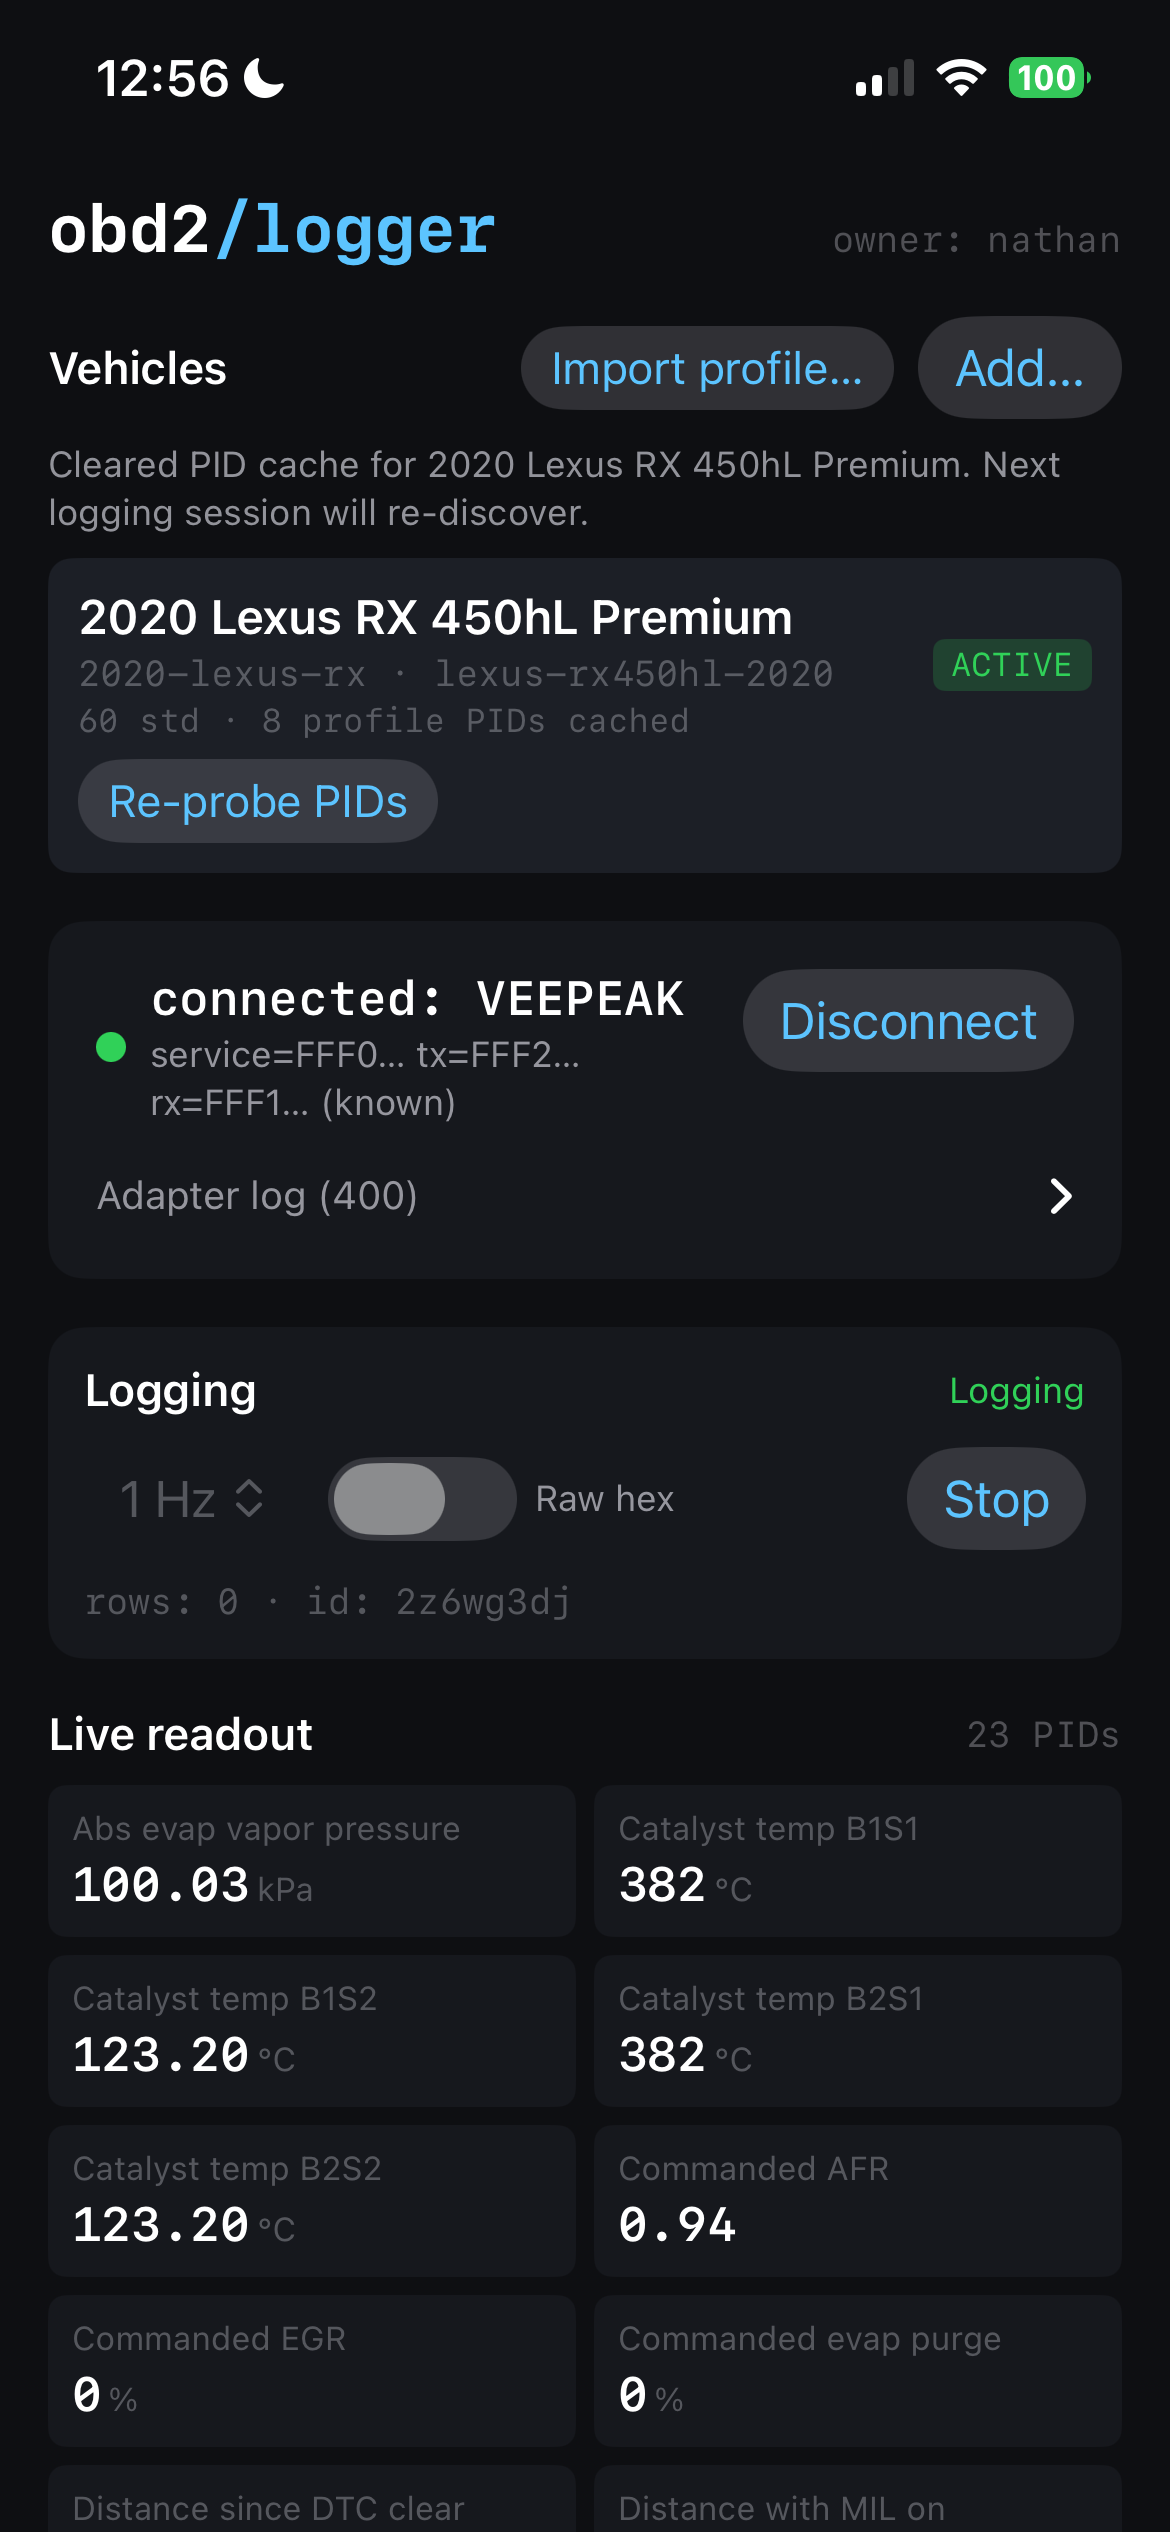
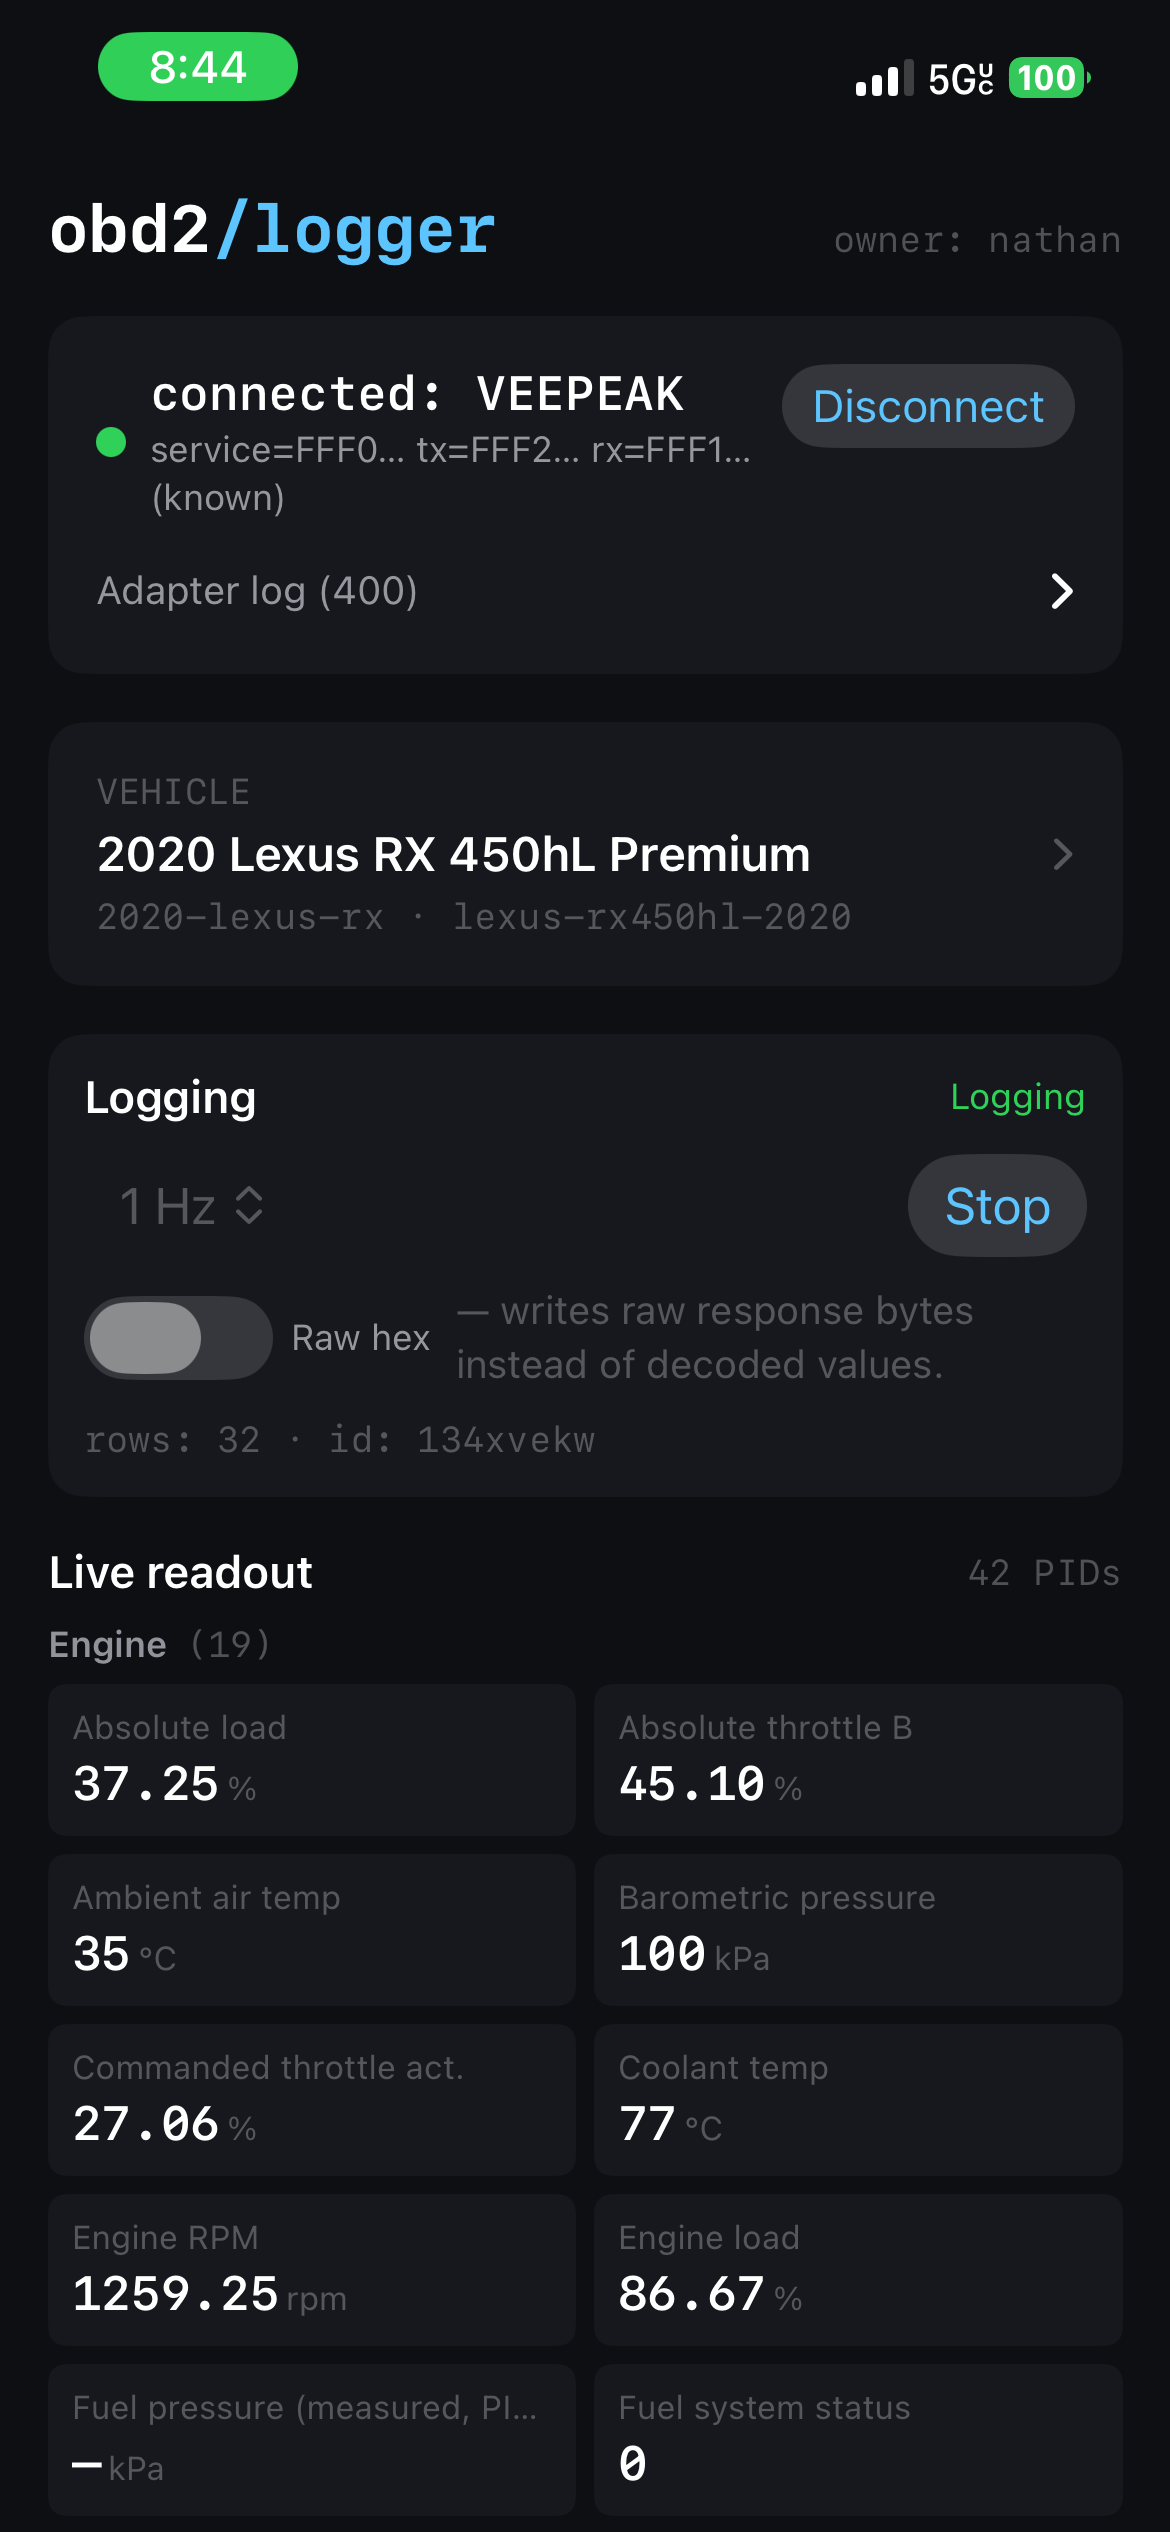
Refresh iOS screenshot in README (#31)
Replaces the screenshot with one captured after the recent UX
work (PRs #23–#30) so the README's iOS shot matches what users
will see today: collapsed vehicle card, categorized Live readout
('Engine (19)' visible), Logging card with the Raw hex toggle on
its own row, and a live session in progress (42 PIDs streaming,
32 rows logged so far). Updates the alt text to match.

diff --git a/README.md b/README.md
@@ -50,7 +50,7 @@ npm run preview
 
 A separate native Swift / SwiftUI app targeting iOS 17+ lives in [`ios-native/`](./ios-native). It uses the same JSON profiles bundled into this repo as the web app, but reimplements the OBD2 stack on top of `CoreBluetooth` so it can keep logging in the background while the user has Google Maps (or any other app) in the foreground — something the web/WebView path can't do because iOS suspends WebKit JavaScript when backgrounded. As of 2026-05-04, the iOS port has **data parity** with the web app — verified against a 2020 Lexus RX 450hL with the same Veepeak adapter, both apps capture ~40 PIDs at ~99% per-tick coverage. See `ios-native/README.md` for build instructions and [`CHANGELOG.md`](./CHANGELOG.md) for the parity-milestone bug list.
 
-<p align="center"><img src="examples/obd2-logger-ios.png" alt="iOS app — same Lexus, multi-ECU sampling with ATSH addressing, 46 PIDs in the Live readout" width="360"></p>
+<p align="center"><img src="examples/obd2-logger-ios.png" alt="iOS app mid-session — same 2020 Lexus RX 450hL, 42 PIDs streaming in the categorized Live readout, vehicle card collapsed, location-mode background keep-alive" width="360"></p>
 
 A previous Capacitor experiment in `ios/` was removed in favor of going pure-native; the WKWebView's JS pause on backgrounding made continuous BLE logging impossible without hacks.
 
